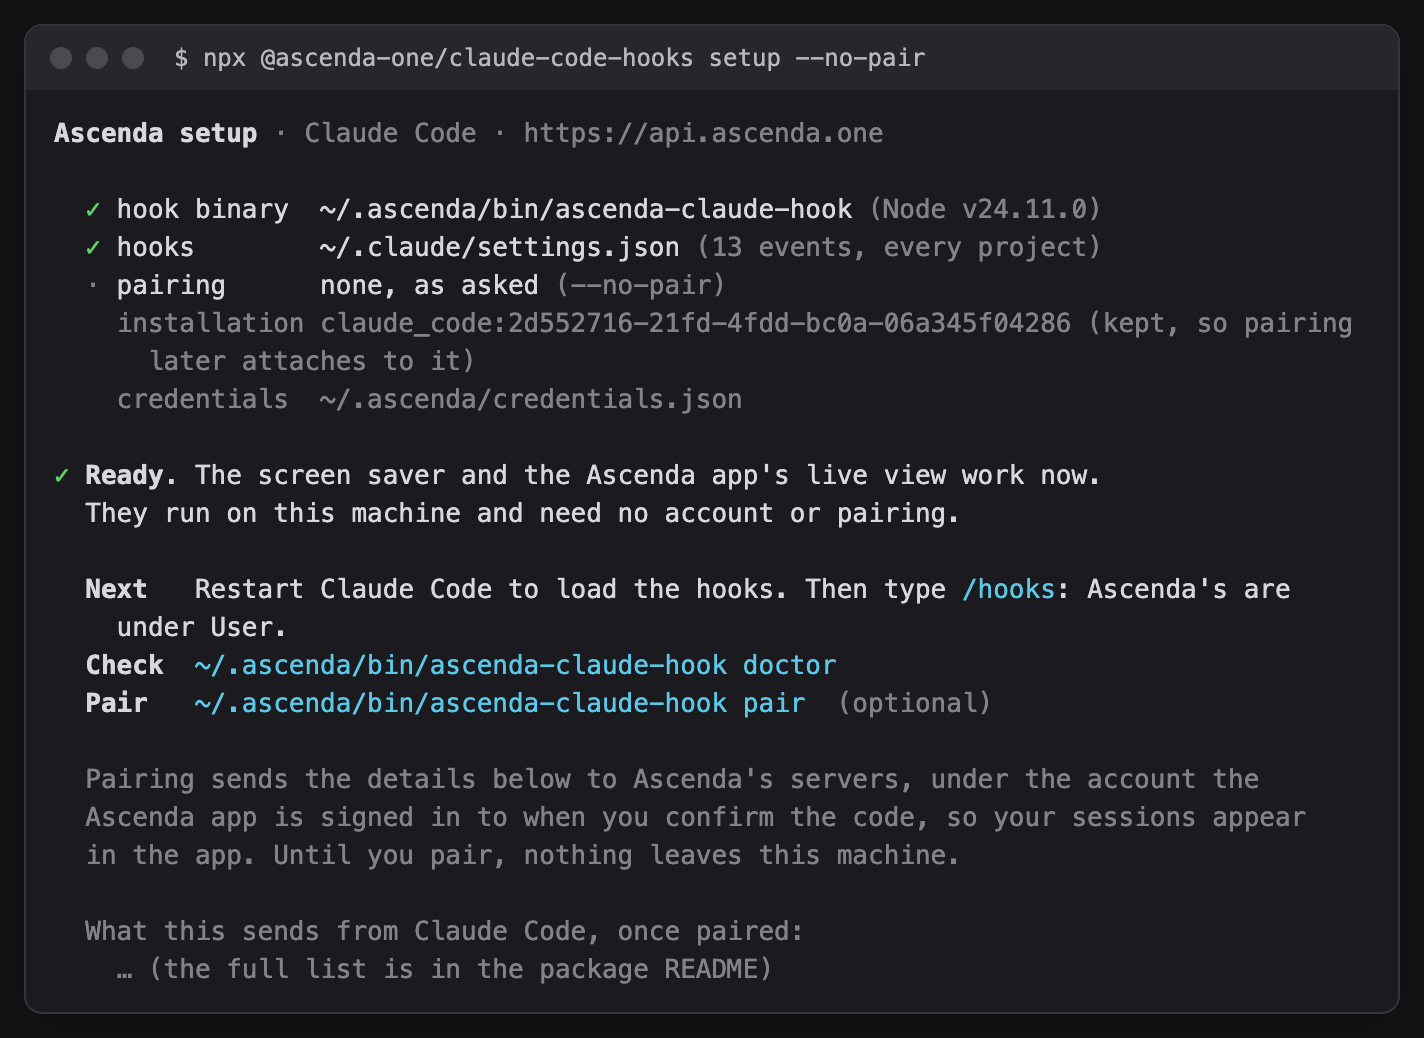
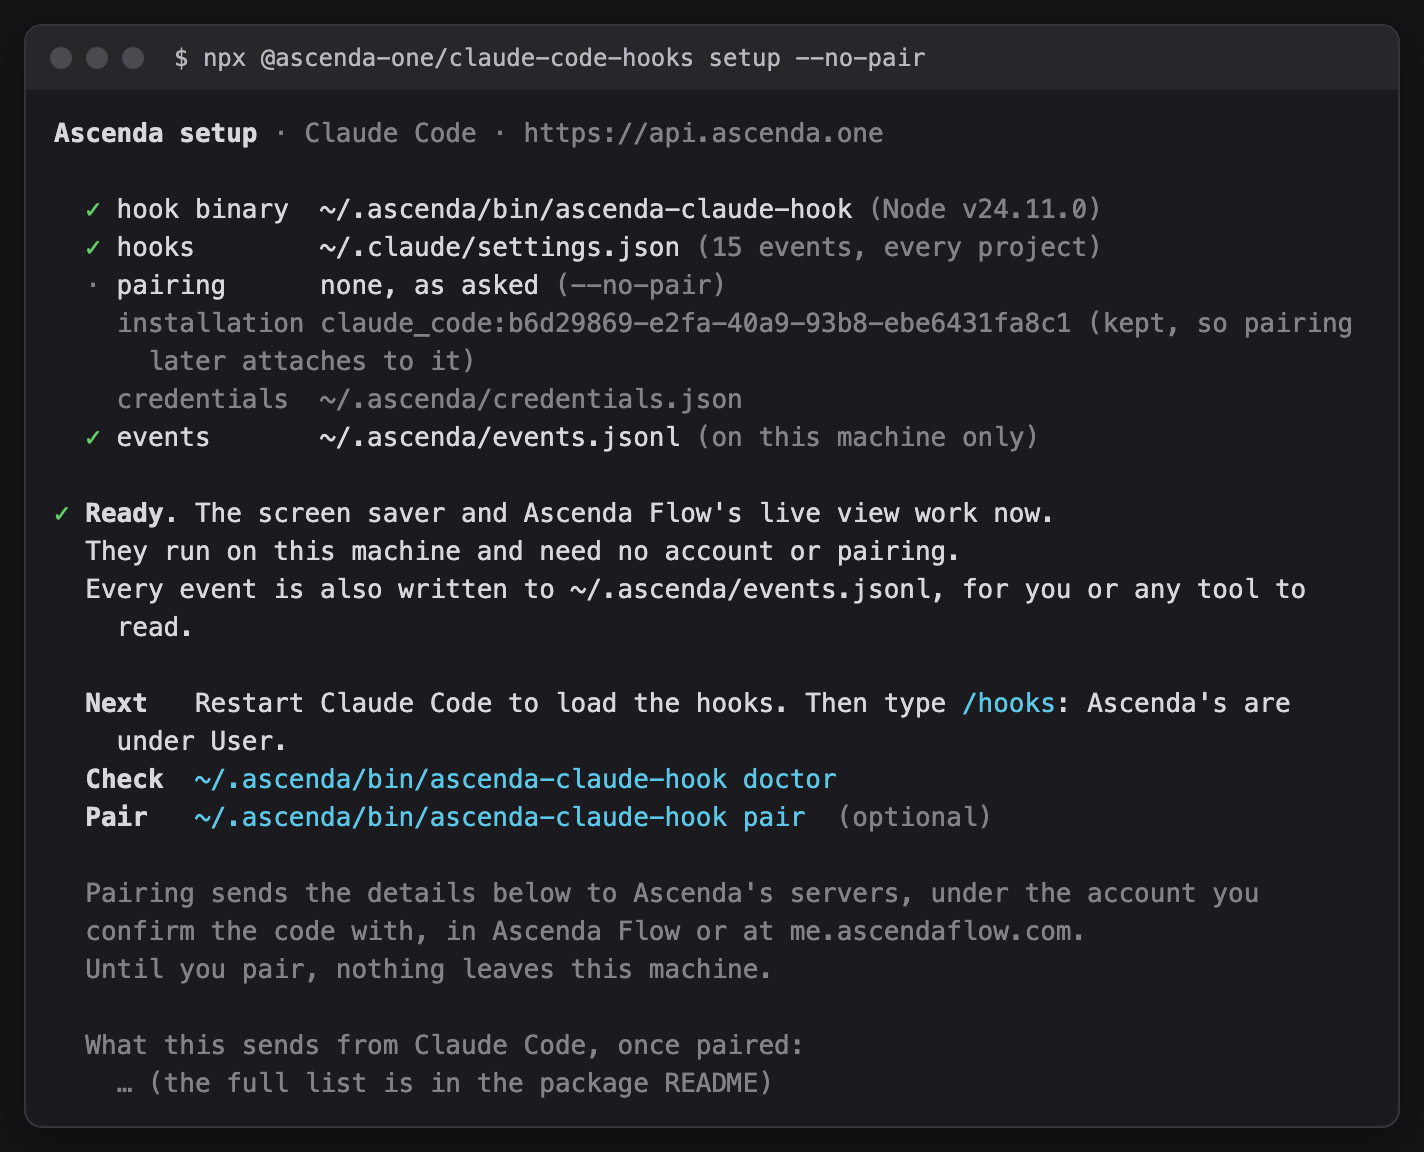
docs: the weekly poster as a path, and the pairing code's two homes (#207)
setup and pair name both places a pairing code works: the Flow app and me.ascendaflow.com/connect. The text comes from pairingConfirmLines in tool-kit, shared by every CLI agent's setup and Claude Code's pair.

The README gains a weekly poster section, four ways to use the tools, and both places to confirm a code under Install and Pairing.

diff --git a/packages/tool-kit/src/cliAgentSetup.ts b/packages/tool-kit/src/cliAgentSetup.ts
@@ -358,7 +358,7 @@ export async function runCliAgentSetup(argv: string[], spec: CliAgentSetupSpec):
   const next = (label: string, value: string) => console.log(`  ${ui.bold(label.padEnd(6))} ${value}`);
   console.log("");
   if (chosenLocal) {
-    console.log(`${ui.mark("ok")} ${ui.bold("Ready.")} The screen saver and the Ascenda app's live view work now.`);
+    console.log(`${ui.mark("ok")} ${ui.bold("Ready.")} The screen saver and Ascenda Flow's live view work now.`);
     console.log("  They run on this machine and need no account or pairing.");
     if (eventLog.path) console.log(`  Every event is also written to ${tidyHomePath(eventLog.path, os.homedir())}, for you or any tool to read.`);
   } else if (!identity) {
@@ -375,9 +375,9 @@ export async function runCliAgentSetup(argv: string[], spec: CliAgentSetupSpec):
 
   if (chosenLocal) {
     console.log("");
-    console.log(ui.dim("  Pairing sends the details below to Ascenda's servers, under the account the"));
-    console.log(ui.dim("  Ascenda app is signed in to when you confirm the code, so your sessions appear"));
-    console.log(ui.dim("  in the app. Until you pair, nothing leaves this machine."));
+    console.log(ui.dim("  Pairing sends the details below to Ascenda's servers, under the account you"));
+    console.log(ui.dim("  confirm the code with, in Ascenda Flow or at me.ascendaflow.com."));
+    console.log(ui.dim("  Until you pair, nothing leaves this machine."));
     console.log("");
     console.log(ui.dim(renderSetupDisclosure({ sends: spec.sends, displayName: spec.displayName }).split("\n").map((line) => `  ${line}`).join("\n")));
   }
@@ -556,7 +556,8 @@ type Identity = { toolInstallationId: string; paired: boolean };
  * otherwise pair. A lapsed token pairs again under the same installation id,
  * so the hooks keep their identity. The local dev server auto-confirms; a
  * real backend needs the pairing confirmed, on its web page or with the
- * 6-digit code in the Ascenda app, so both are printed and polled for.
+ * 6-digit code in Ascenda Flow or on me.ascendaflow.com/connect, so both
+ * are printed and polled for.
  */
 async function resolveIdentity(apiBaseUrl: string, options: SetupOptions, spec: CliAgentSetupSpec): Promise<Identity | undefined> {
   const existingId = options.toolInstallationId ?? readHostCredentials(spec.host)?.toolInstallationId;

diff --git a/packages/tool-kit/src/confirmLinks.ts b/packages/tool-kit/src/confirmLinks.ts
@@ -5,8 +5,15 @@
  *
  * Only an https link is printed. A backend without the web pages hands out
  * the `ascenda://pair` scheme instead, and the local dev server serves no
- * pages at all, so either one falls back to naming the app.
+ * pages at all, so either one falls back to the code alone.
+ *
+ * The code has two homes: the Ascenda Flow app, and the connect page on
+ * me.ascendaflow.com, where someone who signed up for the weekly poster
+ * has no app to type it into. Both are always named.
  */
+
+/** Where a weekly-poster account confirms a pairing code. */
+export const WEEKLY_POSTER_CONNECT_URL = "https://me.ascendaflow.com/connect";
 
 /** `qrUrl` when it's a web page a browser can open, otherwise `undefined`. */
 export function pairingConfirmUrl(qrUrl: string | undefined | null): string | undefined {
@@ -20,8 +27,9 @@ export function pairingConfirmUrl(qrUrl: string | undefined | null): string | un
  */
 export function pairingConfirmLines(qrUrl: string | undefined | null, code: string): string[] {
   const url = pairingConfirmUrl(qrUrl);
-  if (!url) return [`Confirm in the Ascenda app — code ${code}`];
-  return [`Open this link to confirm: ${url}`, `Or paste code ${code} in the Ascenda app.`];
+  const where = ["  Ascenda Flow, under Connections → Ingest telemetry", `  ${WEEKLY_POSTER_CONNECT_URL}, for the weekly poster`];
+  if (!url) return [`Confirm code ${code} in either place:`, ...where];
+  return [`Open this link to confirm: ${url}`, `Or enter code ${code} in either place:`, ...where];
 }
 
 /** `{apiBaseUrl}/join/{deviceCode}`, or `undefined` when the base isn't https. */

diff --git a/ascenda-claude-code-hooks/src/setup.ts b/ascenda-claude-code-hooks/src/setup.ts
@@ -267,7 +267,7 @@ export async function runSetup(argv: string[]): Promise<number> {
   const next = (label: string, value: string) => console.log(`  ${ui.bold(label.padEnd(6))} ${value}`);
   console.log("");
   if (chosenLocal) {
-    console.log(`${ui.mark("ok")} ${ui.bold("Ready.")} The screen saver and the Ascenda app's live view work now.`);
+    console.log(`${ui.mark("ok")} ${ui.bold("Ready.")} The screen saver and Ascenda Flow's live view work now.`);
     console.log("  They run on this machine and need no account or pairing.");
     if (eventLog.path) console.log(`  Every event is also written to ${tidyHome(eventLog.path)}, for you or any tool to read.`);
   } else if (unpaired) {
@@ -283,9 +283,9 @@ export async function runSetup(argv: string[]): Promise<number> {
 
   if (chosenLocal) {
     console.log("");
-    console.log(ui.dim("  Pairing sends the details below to Ascenda's servers, under the account the"));
-    console.log(ui.dim("  Ascenda app is signed in to when you confirm the code, so your sessions appear"));
-    console.log(ui.dim("  in the app. Until you pair, nothing leaves this machine."));
+    console.log(ui.dim("  Pairing sends the details below to Ascenda's servers, under the account you"));
+    console.log(ui.dim("  confirm the code with, in Ascenda Flow or at me.ascendaflow.com."));
+    console.log(ui.dim("  Until you pair, nothing leaves this machine."));
     console.log("");
     console.log(ui.dim(renderSetupDisclosure({ sends: SENDS, displayName: "Claude Code" }).split("\n").map((line) => `  ${line}`).join("\n")));
   }

diff --git a/ascenda-claude-code-hooks/src/cli.ts b/ascenda-claude-code-hooks/src/cli.ts
@@ -89,8 +89,8 @@ const MILESTONE_DEBRIEF_INVITE =
  * ~/.ascenda/tokens/), and the manual alternative was raw curl plus a
  * hand-written token file.
  *
- * Prints the link to confirm in a browser and the 6-digit code for the
- * Ascenda app, waits, persists the
+ * Prints the link to confirm in a browser and the 6-digit code for Ascenda
+ * Flow or me.ascendaflow.com/connect, waits, persists the
  * write token where every CLI tool reads it, and prints the one export line
  * the hooks and MCP server still need.
  */
@@ -148,12 +148,7 @@ async function runPair(): Promise<void> {
   const session = await createPairingSession(apiBaseUrl, toolInstallationId, toolType, toolType === ASCENDA_TOOL_TYPE ? "Claude Code" : toolType);
   const code = session.deviceCode ?? session.code;
 
-  // Without the web page, the app is the only place to confirm, so the code
-  // leads and the app's menu path follows it.
-  const confirm = pairingConfirmLines(session.qrUrl, code);
-  const instructions = confirm.length > 1
-    ? `${confirm.join("\n")}\n`
-    : `Pairing code: ${code}\n\nIn the Ascenda app: Connections -> Ingest telemetry -> paste the code -> Pair tool.\n`;
+  const instructions = `${pairingConfirmLines(session.qrUrl, code).join("\n")}\n`;
   await writeStdout(`\n${instructions}Waiting for confirmation (expires ${session.expiresAt})...\n\n`);
 
   const deadline = Date.now() + 11 * 60 * 1000;

diff --git a/packages/tool-kit/src/index.ts b/packages/tool-kit/src/index.ts
@@ -167,7 +167,7 @@ export type { InitiativeCopy, InitiativesStatusContext } from "./initiatives";
 export { NOTICED_PURPOSES, renderStudyNotices, runStudyObjection, studyNoticeStatus } from "./studyNotices";
 export type { NoticedPurpose, StudyNoticesStatus, StudyNoticesStatusContext, StudyObjectionContext } from "./studyNotices";
 export { describeRefusal as describeStudyJoinRefusal, describeStudyKind, describeStudyGrant, formatWindow, gitOfferLine, runStudyJoin } from "./studyJoin";
-export { pairingConfirmLines, pairingConfirmUrl, studyJoinConfirmUrl } from "./confirmLinks";
+export { WEEKLY_POSTER_CONNECT_URL, pairingConfirmLines, pairingConfirmUrl, studyJoinConfirmUrl } from "./confirmLinks";
 export {
   PAIR_JOIN_OUTCOME_FILE_ENV,
   PAIR_ORG_JOIN_CODE_ENV,

diff --git a/README.md b/README.md
@@ -33,6 +33,19 @@ A Claude Code session and a Codex session side by side, read by
 hook payloads were replayed through the real collectors, so you can run the
 same thing. Install any agent's hooks with `--no-pair` and you get this file.
 
+## One way to use these events
+
+Pair an agent with [me.ascendaflow.com](https://me.ascendaflow.com/?source=github)
+and a poster of your week with AI agents arrives every Monday: the word that
+sums the week up, and the counts behind it. It's free. The poster is drawn
+from the events above, so no prompts or source code are collected. To see one
+first, [play with an example week](https://me.ascendaflow.com/try?source=github).
+Nothing to install, and no account.
+
+<a href="https://me.ascendaflow.com/try?source=github"><img src="https://raw.githubusercontent.com/ascendaone-com/ai-engineer-tools/main/docs/images/weekly-poster-example.png" width="720" alt="Three slides from an example weekly poster: the word Dispatch for week 45, the four days more sessions handed work to subagents than usual, and the week in four numbers"></a>
+
+<sub>The example week from me.ascendaflow.com/try.</sub>
+
 ## Why these collectors
 
 Every coding agent reports its work differently. Different hooks, different
@@ -55,37 +68,42 @@ problems you don't want.
 What these events do and don't tell you is set out in
 [What this measures](#what-this-measures).
 
-## Three ways to use it
+## Four ways to use it
 
 | You want to | Start with |
 | --- | --- |
-| Build your own analytics across the team | The collectors, then [Collecting from a team](./docs/TEAM_COLLECTION.md) |
-| See how you work with your agents | [Ascenda Flow](https://www.ascendaflow.com/?source=github), free for individual engineers |
+| Get a poster of your week with agents every Monday | Connect an agent at [me.ascendaflow.com](https://me.ascendaflow.com/?source=github). Free, in the browser |
+| See how you work with your agents, starting from the history already on your Mac | [Ascenda Flow](https://www.ascendaflow.com/download?source=github), a free Mac app that also makes your boarding pass |
+| Build your own analytics across the team | The collectors with `--no-pair`, then [Collecting from a team](./docs/TEAM_COLLECTION.md). No account |
 | Compare your team with other AI-native teams | The [Founding Benchmark](https://www.ascendaflow.com/benchmark?source=github) |
+
+The collectors record events and stop there. The poster comes from
+me.ascendaflow.com and the boarding pass from the Flow app, both built on the
+same events.
 
 Counts tell you what happened. Whether a busy week was a good one, whether a
 change helped, and how you compare with other teams takes each person's own
 read of their days, and other teams to compare with. That's what Flow and the
 benchmark add.
 
-**Waterline** is the quickest way to see the collectors working: a free macOS
-screen saver that turns Claude Code, Codex and Cursor activity into a water
-level. It runs on your Mac, with no account.
+**Ascenda Flow** is a free macOS app that shows how you work with your agents:
+how many you run at once, when your best work happens, and what gets in the
+way. It starts from the history Claude Code, Cursor and Codex already keep on
+your Mac, and draws your boarding pass from it, one bar for each day you
+worked. Flow is closed source and isn't part of this repo.
+[Download Flow](https://www.ascendaflow.com/download?source=github)
+
+<img src="https://raw.githubusercontent.com/ascendaone-com/ai-engineer-tools/main/docs/images/flow-hud.gif" width="207" alt="The Flow HUD: a colour field labelled Activated, Clear, Strained and Drained, with a frame that fills as agents work">
+
+<sub>Flow's HUD while agents work, about 8× speed.</sub>
+
+**Waterline** is a free macOS screen saver that turns Claude Code, Codex and
+Cursor activity into a water level. It runs on your Mac, with no account.
 [See Waterline](https://www.ascendaflow.com/waterline?source=github)
 
 <img src="https://raw.githubusercontent.com/ascendaone-com/ai-engineer-tools/main/docs/images/waterline-paired.gif" width="640" alt="The Waterline screen saver: a clock over dark water whose level moves with agent activity">
 
 <sub>Waterline with Ascenda Flow paired, at double speed. Flow gives the water its colour.</sub>
-
-**Ascenda Flow** is a macOS app that shows how you work with your agents: how
-many you run at once, when your best work happens, and what gets in the way.
-It starts from the history Claude Code, Cursor and Codex already keep on your
-Mac. Free for individual engineers, with invitations going out by email.
-[Get early access](https://www.ascendaflow.com/?source=github)
-
-<img src="https://raw.githubusercontent.com/ascendaone-com/ai-engineer-tools/main/docs/images/flow-hud.gif" width="207" alt="The Flow HUD: a colour field labelled Activated, Clear, Strained and Drained, with a frame that fills as agents work">
-
-<sub>Flow's HUD while agents work, about 8× speed.</sub>
 
 **The Founding Benchmark** studies how small AI-native teams work with agents:
 concurrency, who carries the review load, steering and rework. We're inviting
@@ -111,7 +129,7 @@ If you've set `CLAUDE_CONFIG_DIR` or `CODEX_HOME`, setup writes there.
 Add `--no-pair` to install without an account. `setup` then installs the hooks
 and stops. The live signal and the local event log work, and nothing is sent.
 
-![setup --no-pair finishing with "Ready. The screen saver and the Ascenda app's live view work now."](https://raw.githubusercontent.com/ascendaone-com/ai-engineer-tools/main/docs/images/cli-setup-no-pair.png)
+![setup --no-pair finishing with "Ready. The screen saver and Ascenda Flow's live view work now."](https://raw.githubusercontent.com/ascendaone-com/ai-engineer-tools/main/docs/images/cli-setup-no-pair.png)
 
 What `setup` does, for every agent:
 
@@ -124,8 +142,10 @@ What `setup` does, for every agent:
   fnm, volta, asdf, mise). Hooks keep working when the agent starts from the
   Dock or an IDE without your shell's PATH. On Windows the hook runs the Node
   that ran `setup` directly.
-- **Pairs,** unless you passed `--no-pair`: it prints a 6-digit code to confirm
-  in the Flow app under **Connections → Ingest telemetry**.
+- **Pairs,** unless you passed `--no-pair`: it prints a 6-digit code. Confirm
+  it in the Flow app under **Connections → Ingest telemetry**, or at
+  [me.ascendaflow.com/connect](https://me.ascendaflow.com/connect?source=github)
+  for the weekly poster.
 
 Nothing goes in your shell profile. Then restart the agent:
 
@@ -227,7 +247,7 @@ The collectors work in two ways, and the first needs no account:
   `~/.ascenda/events.jsonl` and send a live signal to a socket on your Mac,
   which Waterline and the Flow app read. Nothing leaves the machine.
 - **With your Ascenda account.** [Pair](#pairing) a tool once and its events
-  go to Ascenda, so your sessions appear in Flow over time. The live signal
+  go to Ascenda, so your sessions appear in Flow and on your weekly poster. The live signal
   keeps working, and `setup --event-log` keeps the local file as well.
 
 Workspace and project identifiers are hashed with a random salt generated on
@@ -287,21 +307,28 @@ Forks and commercial products built on these collectors are welcome under
 ## Pairing
 
 Pairing links one tool installation to your Ascenda account. Each tool pairs
-on its own, and each pairing can be revoked on its own in the Flow app.
+on its own, and each pairing can be revoked on its own, in the Flow app or on
+[me.ascendaflow.com/connect](https://me.ascendaflow.com/connect?source=github).
+The code works in either place:
+
+- **Ascenda Flow,** the Mac app, under **Connections → Ingest telemetry**.
+- **[me.ascendaflow.com/connect](https://me.ascendaflow.com/connect?source=github),**
+  if you signed up for the weekly poster and have no app.
 
 **The editor extension** pairs with **Ascenda: Connect App**, which shows a QR
 code and a six-digit code, good for a few minutes:
 
 ![The Ascenda pairing panel in VS Code, showing a QR code and a six-digit pairing code](https://raw.githubusercontent.com/ascendaone-com/ai-engineer-tools/main/docs/images/vscode-pairing-code.png)
 
-Confirm it in the Flow app under **Connections → Ingest telemetry**: scan the
-QR, or paste the code. The code carries no personal data.
+Scan the QR with your phone, or enter the code in Flow or on
+me.ascendaflow.com/connect. The code carries no personal data.
 
 The pairing request carries the tool's name (`Claude Code`, `VS Code`) and a
 random installation id, nothing about the machine or the person. No hostname,
 no username. The installation id is what tells two installs apart.
 
-**The CLI agents** pair during `setup`, which prints the same kind of code. To
+**The CLI agents** pair during `setup`, which prints a link to confirm in a
+browser and the same kind of code, with both places it works. To
 pair an install made with `--no-pair`, run `setup` again (or, for Claude Code,
 `~/.ascenda/bin/ascenda-claude-hook pair`). It attaches to the installation
 already on file, so the hooks you have keep their identity.

diff --git a/docs/images/README.md b/docs/images/README.md
@@ -33,6 +33,7 @@ a branch preview will show a broken image until then. That is expected.
 | `cli-doctor-problem.png` | `doctor` naming a problem (hooks not registered) and its fix. **Generated** | root README |
 | `waterline-paired.gif` | The Waterline screen saver with Ascenda Flow paired, the water falling as agent work winds down. Made from the recording on ascendaflow.com/waterline at 2× speed, 800px wide, 12 fps | root README, Built with these collectors |
 | `flow-hud.gif` | The Flow HUD while agents work: 82 seconds of screen captures at about 8× speed, 414×414 (a 207-point window at 2×) | root README, Built with these collectors |
+| `weekly-poster-example.png` | Slides 1 to 3 of the example week on me.ascendaflow.com/try (the word, why this word, four numbers), 9:16, captured from the live page at 2× with headless Chromium and set side by side | root README, One way to use these events |
 
 ## Generated terminal shots
 
